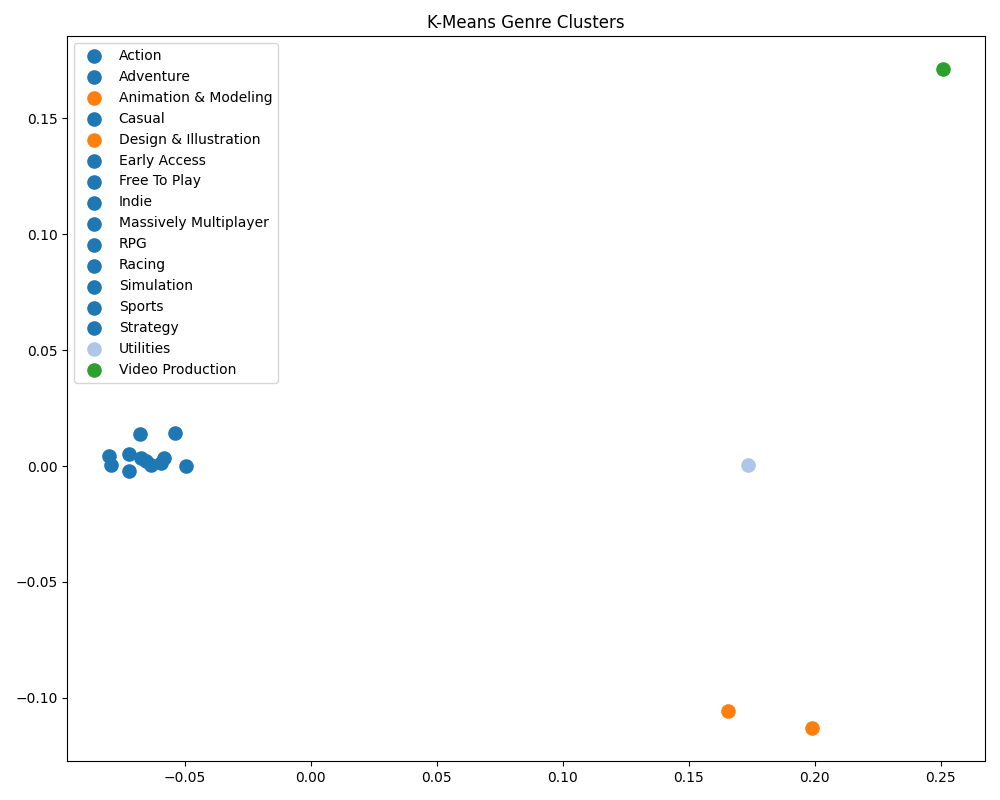
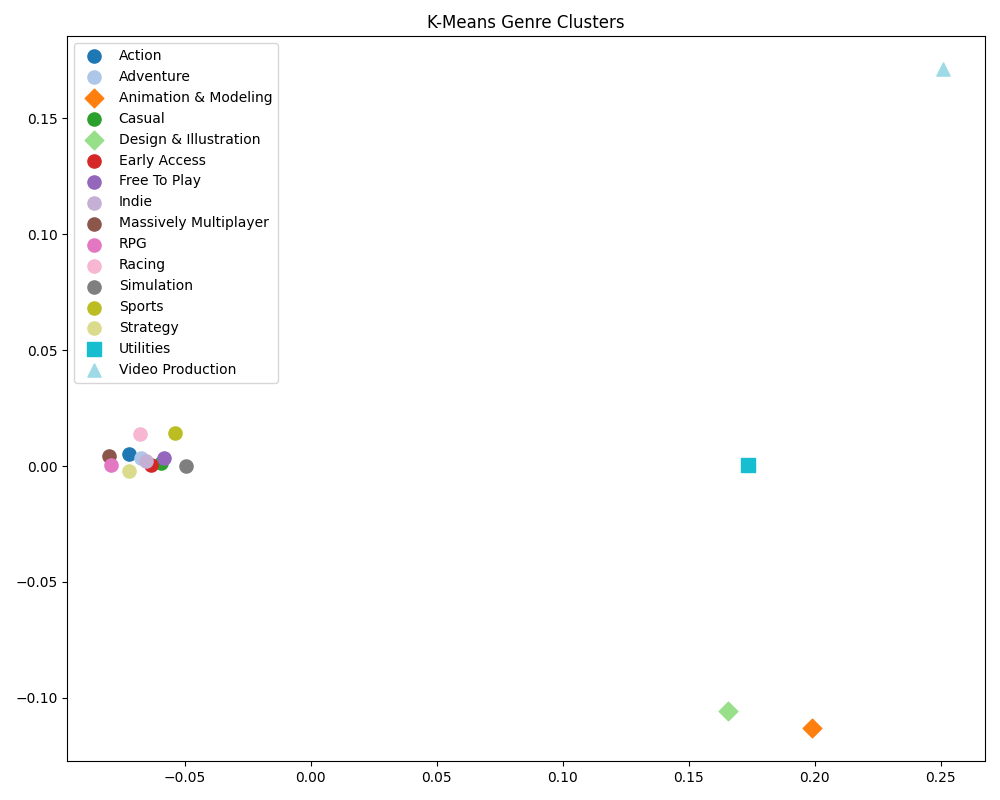
K-Means Genre Clutering

diff --git a/genreClustering.py b/genreClustering.py
@@ -66,23 +66,21 @@ plt.figure(figsize=(10, 8))
 
 # Color map with colors for each genre
 cmap = plt.cm.get_cmap("tab20", len(genre_names))
+# Marker shapes for different clusters
+markers = ["o", "s", "D", "^"]
 
 # Looping through each genre
-for i in range(len(genre_names)):
-    # Coordinates of genre in PCA space
-    x, y = coords_2d[i]
-    # Name of genre
-    genre = genre_names[i]
-    # Cluster for genre
-    c = cluster_ids[i]    
-
-    # Plotting genre as point
+for i, (x, y, genre, c) in enumerate(
+    zip(coords_2d[:, 0], coords_2d[:, 1], genre_names, cluster_ids)
+):
     plt.scatter(
         x, y,
-        color=cmap(c),   # Color based on cluster   
+        color=cmap(i),                     # Different color for each genre
+        marker=markers[c % len(markers)],  # Same shape for each cluster
         s=90,
-        label=genre        
+        label=genre,
     )
+
 
 # Plotting genre legend
 plt.legend()
